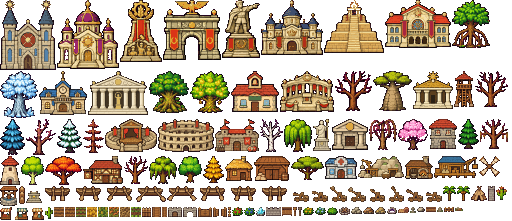
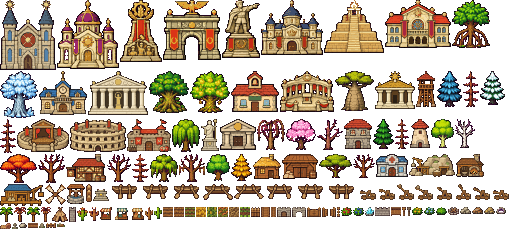
Otoño en acacias y dibujo seco para pinos, abetos, palmeras y cactus muertos
- Las hojas verde amarillento (acacias) también cambian de color en otoño
- Pinos, abetos, palmeras y cactus muertos usan su versión seca de la hoja, a la misma altura que el árbol vivo

diff --git a/js/arte_mapa.js b/js/arte_mapa.js
@@ -1,2 +1,2 @@
 // Forja de Mundos · Mapa del atlas de arte (generado: no editar a mano). clave: [x, y, ancho, alto, ancla x, llamas?]
-const ART_MAP = {"house:hut":[225,156,28,25,14],"house:piedra":[429,119,28,30,14],"well:pozo":[0,186,18,20,9],"store:almacen":[254,156,36,25,18],"tower:torre":[454,71,20,36,10],"hall:ayuntamiento":[39,71,48,44,24],"market:mercado":[0,207,44,13,22],"bank:banco":[332,119,36,31,18],"hospital:hospital":[325,156,32,23,16],"school:escuela":[231,71,48,41,24],"tavern:taberna":[83,156,40,28,20],"theater:teatro":[105,119,52,33,26],"coliseum:coliseo":[158,119,56,33,28],"barracks:cuartel":[215,119,44,33,22],"tradehall:lonja":[434,156,44,22,22],"quarry:cantera":[358,156,46,23,23],"temple:templo":[413,71,40,38,20],"obelisk:monumento":[313,119,18,32,9],"cathedral:catedral":[0,0,56,70,28],"cathedral:panteon":[88,71,60,44,30],"wonder:republica":[280,71,54,41,27],"wonder:monarquia":[261,0,62,55,31],"wonder:dictadura":[222,0,38,58,19],"wonder:comunismo":[120,0,42,62,21],"wonder:fascismo":[163,0,58,60,29],"wonder:socialismo":[385,0,66,48,33],"wonder:teocracia":[57,0,62,69,31],"altar:altar":[26,186,16,17,8,[5,0,6,6]],"cathedral:zigurat":[324,0,60,53,30,[24,1,12,13]],"forge:herreria":[405,156,28,23,14,[14,17,9,3]],"mill:molino":[0,156,20,29,10],"mill:aspas":[479,156,21,21,10],"oak:forest":[178,156,24,27,12],"oak:forest:bare":[124,156,24,28,12],"pine:pine":[458,119,21,30,10],"pine:snow":[57,119,25,34,12],"acacia:dry":[291,156,33,24,16],"acacia:dry:bare":[475,71,33,36,16],"birch:birch":[21,156,23,29,11],"birch:birch:bare":[260,119,23,33,11],"pine:blue":[0,119,25,36,12],"willow:swamp":[284,119,28,33,14],"willow:swamp:bare":[369,119,28,31,14],"palm:palm":[443,186,13,15,6],"palm:coco":[457,186,13,15,6],"oak:cherry":[398,119,30,31,15],"oak:cherry:bare":[26,119,30,36,15],"pine:autumn":[203,156,21,27,10],"pine:autumn:bare":[83,119,21,34,10],"acacia:sunset":[45,156,37,29,18],"acacia:sunset:bare":[335,71,37,40,18],"willow:moss":[149,156,28,28,14],"willow:moss:bare":[480,119,28,30,14],"cactus:cactus":[45,207,8,12,4],"cactus:bloom":[496,186,11,14,5],"ancient:elder":[149,71,40,42,20],"ancient:frost":[0,71,38,47,19],"ancient:baobab":[373,71,39,40,19],"ancient:mangrove":[452,0,38,48,19],"ancient:life":[190,71,40,42,20],"bush:red":[232,207,11,9,5],"bush:blueb":[244,207,11,9,5],"bush:goldb":[303,207,11,8,5],"bush:moon":[315,207,11,8,5],"bush:empty":[327,207,11,8,5],"rock:stone":[417,207,8,5,4],"big:stone":[351,207,11,7,5],"ore:iron":[363,207,11,7,5],"ore:gold":[375,207,11,7,5],"gem:amethyst":[387,207,10,7,5],"gem:mana":[256,207,9,9,4],"fire:camp":[339,207,11,8,5],"camp:tienda":[471,186,16,15,8],"camp:estera":[398,207,11,6,5],"boat:0":[43,186,30,16,15],"boat:1":[74,186,30,16,15],"boat:2":[105,186,30,16,15],"boat:3":[136,186,30,16,15],"boat:4":[167,186,30,16,15],"boat:5":[198,186,30,16,15],"boat:6":[229,186,30,16,15],"boat:7":[260,186,30,16,15],"catapult:0":[291,186,18,16,9],"catapult:1":[310,186,18,16,9],"catapult:2":[329,186,18,16,9],"catapult:3":[348,186,18,16,9],"catapult:4":[367,186,18,16,9],"catapult:5":[386,186,18,16,9],"catapult:6":[405,186,18,16,9],"catapult:7":[424,186,18,16,9],"tex:arada":[54,207,10,10,5],"tex:sembrado":[65,207,10,10,5],"tex:brotes":[76,207,10,10,5],"tex:trigo":[87,207,10,10,5],"tex:maiz":[98,207,10,10,5],"tex:mijo":[109,207,10,10,5],"tex:muerta":[120,207,10,10,5],"tex:huerta":[131,207,10,10,5],"tex:empalizada_h":[142,207,9,10,4],"tex:empalizada_v":[19,186,6,18,3],"tex:piedra_h":[266,207,15,9,7],"tex:piedra_v":[488,186,7,15,3],"tex:puente_h":[282,207,10,9,5],"tex:puente_v":[152,207,9,10,4],"tex:puente_h5":[426,207,10,5,5],"tex:puente_v5":[162,207,5,10,2],"gate:piedra":[168,207,14,10,7],"gate:piedra_abierta":[183,207,14,10,7],"gate:madera":[198,207,14,10,7],"gate:madera_abierta":[213,207,14,10,7],"tumba:lapida":[437,207,6,5,3],"tumba:flores":[455,207,8,4,4],"tumba:estela":[410,207,6,6,3],"tex:valla_h":[444,207,10,5,5],"tex:valla_v":[228,207,3,10,1],"antorcha:encendida":[293,207,4,9,2],"antorcha:apagada":[298,207,4,9,2]};
+const ART_MAP = {"house:hut":[253,154,28,25,14],"house:piedra":[344,119,28,30,14],"well:pozo":[67,184,18,20,9],"store:almacen":[282,154,36,25,18],"tower:torre":[416,71,20,36,10],"hall:ayuntamiento":[39,71,48,44,24],"market:mercado":[100,207,44,13,22],"bank:banco":[220,119,36,31,18],"hospital:hospital":[376,154,32,23,16],"school:escuela":[231,71,48,41,24],"tavern:taberna":[66,154,40,28,20],"theater:teatro":[17,119,52,33,26],"coliseum:coliseo":[70,119,56,33,28],"barracks:cuartel":[127,119,44,33,22],"tradehall:lonja":[0,184,44,22,22],"quarry:cantera":[409,154,46,23,23],"temple:templo":[375,71,40,38,20],"obelisk:monumento":[201,119,18,32,9],"cathedral:catedral":[0,0,56,70,28],"cathedral:panteon":[88,71,60,44,30],"wonder:republica":[280,71,54,41,27],"wonder:monarquia":[261,0,62,55,31],"wonder:dictadura":[222,0,38,58,19],"wonder:comunismo":[120,0,42,62,21],"wonder:fascismo":[163,0,58,60,29],"wonder:socialismo":[385,0,66,48,33],"wonder:teocracia":[57,0,62,69,31],"altar:altar":[93,184,16,17,8,[5,0,6,6]],"cathedral:zigurat":[324,0,60,53,30,[24,1,12,13]],"forge:herreria":[456,154,28,23,14,[14,17,9,3]],"mill:molino":[410,119,20,29,10],"mill:aspas":[45,184,21,21,10],"oak:forest":[206,154,24,27,12],"oak:forest:bare":[107,154,24,28,12],"pine:pine":[373,119,21,30,10],"pine:pine:bare":[395,119,14,30,7],"pine:snow":[480,71,25,34,12],"pine:snow:bare":[0,119,16,34,8],"acacia:dry":[319,154,33,24,16],"acacia:dry:bare":[353,154,22,24,11],"birch:birch":[431,119,23,29,11],"birch:birch:bare":[455,119,20,29,10],"pine:blue":[437,71,25,36,12],"pine:blue:bare":[463,71,16,36,8],"willow:swamp":[172,119,28,33,14],"willow:swamp:bare":[257,119,28,31,14],"palm:palm":[0,207,13,15,6],"palm:palm:bare":[14,207,12,15,6],"palm:coco":[27,207,13,15,6],"palm:coco:bare":[41,207,10,15,5],"oak:cherry":[286,119,30,31,15],"oak:cherry:bare":[317,119,26,31,13],"pine:autumn":[231,154,21,27,10],"pine:autumn:bare":[132,154,17,28,8],"acacia:sunset":[0,154,37,29,18],"acacia:sunset:bare":[38,154,27,29,13],"willow:moss":[150,154,28,28,14],"willow:moss:bare":[179,154,26,28,13],"cactus:cactus":[154,207,8,12,4],"cactus:cactus:bare":[145,207,8,13,4],"cactus:bloom":[77,207,11,14,5],"cactus:bloom:bare":[89,207,10,14,5],"ancient:elder":[149,71,40,42,20],"ancient:frost":[0,71,38,47,19],"ancient:baobab":[335,71,39,40,19],"ancient:mangrove":[452,0,38,48,19],"ancient:life":[190,71,40,42,20],"bush:red":[341,207,11,9,5],"bush:blueb":[353,207,11,9,5],"bush:goldb":[412,207,11,8,5],"bush:moon":[424,207,11,8,5],"bush:empty":[436,207,11,8,5],"rock:stone":[19,223,8,5,4],"big:stone":[460,207,11,7,5],"ore:iron":[472,207,11,7,5],"ore:gold":[484,207,11,7,5],"gem:amethyst":[496,207,10,7,5],"gem:mana":[365,207,9,9,4],"fire:camp":[448,207,11,8,5],"camp:tienda":[52,207,16,15,8],"camp:estera":[0,223,11,6,5],"boat:0":[110,184,30,16,15],"boat:1":[141,184,30,16,15],"boat:2":[172,184,30,16,15],"boat:3":[203,184,30,16,15],"boat:4":[234,184,30,16,15],"boat:5":[265,184,30,16,15],"boat:6":[296,184,30,16,15],"boat:7":[327,184,30,16,15],"catapult:0":[358,184,18,16,9],"catapult:1":[377,184,18,16,9],"catapult:2":[396,184,18,16,9],"catapult:3":[415,184,18,16,9],"catapult:4":[434,184,18,16,9],"catapult:5":[453,184,18,16,9],"catapult:6":[472,184,18,16,9],"catapult:7":[491,184,18,16,9],"tex:arada":[163,207,10,10,5],"tex:sembrado":[174,207,10,10,5],"tex:brotes":[185,207,10,10,5],"tex:trigo":[196,207,10,10,5],"tex:maiz":[207,207,10,10,5],"tex:mijo":[218,207,10,10,5],"tex:muerta":[229,207,10,10,5],"tex:huerta":[240,207,10,10,5],"tex:empalizada_h":[251,207,9,10,4],"tex:empalizada_v":[86,184,6,18,3],"tex:piedra_h":[375,207,15,9,7],"tex:piedra_v":[69,207,7,15,3],"tex:puente_h":[391,207,10,9,5],"tex:puente_v":[261,207,9,10,4],"tex:puente_h5":[28,223,10,5,5],"tex:puente_v5":[271,207,5,10,2],"gate:piedra":[277,207,14,10,7],"gate:piedra_abierta":[292,207,14,10,7],"gate:madera":[307,207,14,10,7],"gate:madera_abierta":[322,207,14,10,7],"tumba:lapida":[39,223,6,5,3],"tumba:flores":[57,223,8,4,4],"tumba:estela":[12,223,6,6,3],"tex:valla_h":[46,223,10,5,5],"tex:valla_v":[337,207,3,10,1],"antorcha:encendida":[402,207,4,9,2],"antorcha:apagada":[407,207,4,9,2]};

diff --git a/index.html b/index.html
@@ -6,7 +6,7 @@
 <meta name="claude:viewport-fit-sides" content="cover">
 <link rel="preconnect" href="https://fonts.googleapis.com">
 <link rel="stylesheet" href="https://fonts.googleapis.com/css2?family=Pixelify+Sans:wght@400;600&family=Nunito+Sans:wght@400;600;700&display=swap">
-<link rel="stylesheet" href="css/estilo.css?v=202611230241">
+<link rel="stylesheet" href="css/estilo.css?v=202611230248">
 
 <div class="app">
   <section class="stage" id="stage">
@@ -155,24 +155,24 @@
 </div>
 
 <!-- El juego, en el orden en que se carga -->
-<script src="js/nucleo.js?v=202611230241"></script>
-<script src="js/mundo.js?v=202611230241"></script>
-<script src="js/vista.js?v=202611230241"></script>
-<script src="js/clima.js?v=202611230241"></script>
-<script src="js/fauna.js?v=202611230241"></script>
-<script src="js/desastres.js?v=202611230241"></script>
-<script src="js/mapas.js?v=202611230241"></script>
-<script src="js/humanos.js?v=202611230241"></script>
-<script src="js/partidas.js?v=202611230241"></script>
-<script src="js/vida.js?v=202611230241"></script>
-<script src="js/sociedad.js?v=202611230241"></script>
-<script src="js/cartografia.js?v=202611230241"></script>
-<script src="js/convivencia.js?v=202611230241"></script>
-<script src="js/credos.js?v=202611230241"></script>
-<script src="js/tratados.js?v=202611230241"></script>
-<script src="js/trabajo.js?v=202611230241"></script>
-<script src="js/arte_mapa.js?v=202611230241"></script>
-<script src="js/arte.js?v=202611230241"></script>
-<script src="js/vegetacion.js?v=202611230241"></script>
-<script src="js/aldeanos.js?v=202611230241"></script>
-<script src="js/interfaz.js?v=202611230241"></script>
+<script src="js/nucleo.js?v=202611230248"></script>
+<script src="js/mundo.js?v=202611230248"></script>
+<script src="js/vista.js?v=202611230248"></script>
+<script src="js/clima.js?v=202611230248"></script>
+<script src="js/fauna.js?v=202611230248"></script>
+<script src="js/desastres.js?v=202611230248"></script>
+<script src="js/mapas.js?v=202611230248"></script>
+<script src="js/humanos.js?v=202611230248"></script>
+<script src="js/partidas.js?v=202611230248"></script>
+<script src="js/vida.js?v=202611230248"></script>
+<script src="js/sociedad.js?v=202611230248"></script>
+<script src="js/cartografia.js?v=202611230248"></script>
+<script src="js/convivencia.js?v=202611230248"></script>
+<script src="js/credos.js?v=202611230248"></script>
+<script src="js/tratados.js?v=202611230248"></script>
+<script src="js/trabajo.js?v=202611230248"></script>
+<script src="js/arte_mapa.js?v=202611230248"></script>
+<script src="js/arte.js?v=202611230248"></script>
+<script src="js/vegetacion.js?v=202611230248"></script>
+<script src="js/aldeanos.js?v=202611230248"></script>
+<script src="js/interfaz.js?v=202611230248"></script>

diff --git a/js/arte.js b/js/arte.js
@@ -9,7 +9,7 @@ const ART = { img:null, ready:false, cache:new Map() };
   if (typeof ART_MAP === 'undefined') return;
   const im = new Image();
   im.onload = () => { ART.img = im; ART.ready = true; ART.cache.clear(); if (typeof world !== 'undefined' && world && typeof composeRegion === 'function') composeRegion(0, 0, W - 1, H - 1); };
-  im.src = 'arte/atlas.png?v=202611230241';
+  im.src = 'arte/atlas.png?v=202611230248';
 })();
 const ART_DECID = new Set(['oak:forest', 'birch:birch', 'willow:swamp', 'willow:moss', 'acacia:dry', 'acacia:sunset', 'oak:cherry', 'pine:autumn']);
 const ART_EVER = new Set(['pine:pine', 'pine:snow', 'pine:blue', 'ancient:elder', 'ancient:mangrove', 'ancient:life', 'ancient:baobab']);
@@ -20,7 +20,7 @@ function artPiece(k){
   return c;
 }
 // Hojas: verdes (más verde que rojo y que azul)
-const isLeaf = (r, g, b) => g > r + 6 && g >= b;
+const isLeaf = (r, g, b) => g > b + 22 && g >= r - 14 && !(r > g + 10); // verdes y verde amarillento (acacias), no troncos ni tierra
 const ART_AUTUMN = [[[120, 46, 20], [184, 74, 28], [226, 120, 40], [246, 168, 70]], [[110, 24, 22], [168, 40, 32], [208, 70, 44], [236, 120, 80]], [[128, 84, 20], [196, 140, 30], [232, 188, 60], [248, 222, 120]]];
 function seasonal(c, key, season, variant){
   const x = c.getContext('2d'), d = x.getImageData(0, 0, c.width, c.height), p = d.data, w = c.width;

diff --git a/herramientas/atlas.py b/herramientas/atlas.py
@@ -89,10 +89,10 @@ add('mill:molino', shrink(cut(H2, [(680, 800)]), 20)); add('mill:aspas', shrink(
 # ---- Naturaleza (hoja_06: cada árbol con su versión desnuda al lado) ----
 H6 = 'hoja_06.png'
 T6 = [  # clave, punto del árbol con hojas, punto del desnudo (o None), ancho
-  ('oak:forest', (80, 140), (160, 140), 24), ('pine:pine', (300, 140), None, 21), ('pine:snow', (497, 140), None, 25), ('acacia:dry', (700, 145), (797, 145), 33),
-  ('birch:birch', (80, 295), (168, 300), 23), ('pine:blue', (305, 295), None, 25), ('willow:swamp', (500, 300), (585, 305), 28), ('palm:palm', (708, 300), None, 13),
-  ('palm:coco', (82, 455), None, 13), ('oak:cherry', (293, 455), (380, 460), 30), ('pine:autumn', (498, 450), (574, 450), 21), ('acacia:sunset', (700, 455), (797, 460), 37),
-  ('willow:moss', (82, 607), (170, 610), 28), ('cactus:cactus', (304, 608), None, 8), ('cactus:bloom', (500, 606), None, 11),
+  ('oak:forest', (80, 140), (160, 140), 24), ('pine:pine', (300, 140), (376, 138), 21), ('pine:snow', (497, 140), (570, 138), 25), ('acacia:dry', (700, 145), (797, 145), 33),
+  ('birch:birch', (80, 295), (168, 300), 23), ('pine:blue', (305, 295), (376, 296), 25), ('willow:swamp', (500, 300), (585, 305), 28), ('palm:palm', (708, 300), (800, 305), 13),
+  ('palm:coco', (82, 455), (162, 459), 13), ('oak:cherry', (293, 455), (380, 460), 30), ('pine:autumn', (498, 450), (574, 450), 21), ('acacia:sunset', (700, 455), (797, 460), 37),
+  ('willow:moss', (82, 607), (170, 610), 28), ('cactus:cactus', (304, 608), (376, 608), 8), ('cactus:bloom', (500, 606), (569, 610), 11),
   ('ancient:elder', (980, 175), None, 40), ('ancient:frost', (1170, 178), None, 38), ('ancient:baobab', (1353, 178), None, 39), ('ancient:mangrove', (1528, 180), None, 38), ('ancient:life', (978, 395), None, 40),
 ]
 def trunk_clean(img):  # motas rosas o verdes sueltas en el tronco (restos de la reducción): color de tronco
@@ -102,7 +102,9 @@ def trunk_clean(img):  # motas rosas o verdes sueltas en el tronco (restos de la
     a[stray, :3] = (110, 70, 36); return Image.fromarray(a, 'RGBA')
 for key, p, bare, w in T6:
     img = shrink(cut(H6, [p]), w, 24); add(key, trunk_clean(img) if key == 'oak:cherry' else img)
-    if bare: add(key + ':bare', shrink(cut(H6, [bare]), w, 16))
+    if bare: # el desnudo, a la misma altura que el vivo (si no, los troncos estrechos salían gigantes)
+        b = cut(H6, [bare]); bw = max(3, min(w, round(b.width * img.height / b.height)))
+        add(key + ':bare', shrink(b, bw, 16))
 for key, p, w in [('bush:red', (1169, 405), 11), ('bush:blueb', (1343, 405), 11), ('bush:goldb', (1522, 405), 11), ('bush:moon', (978, 590), 11), ('bush:empty', (1167, 590), 11),
                   ('rock:stone', (1732, 262), 8), ('big:stone', (1898, 250), 11), ('ore:iron', (2073, 250), 11), ('ore:gold', (1732, 469), 11), ('gem:amethyst', (1902, 469), 10), ('gem:mana', (2074, 464), 9)]:
     add(key, shrink(cut(H6, [p]), w, 16))
